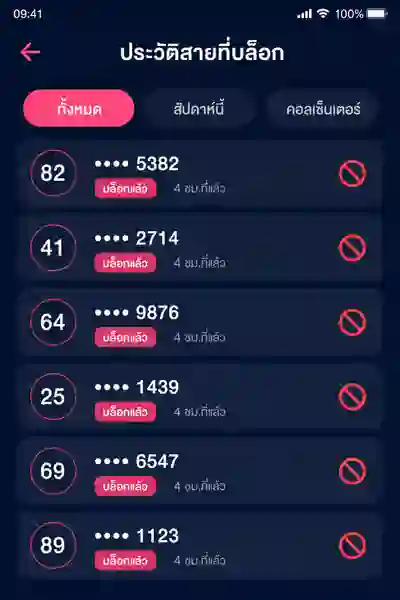
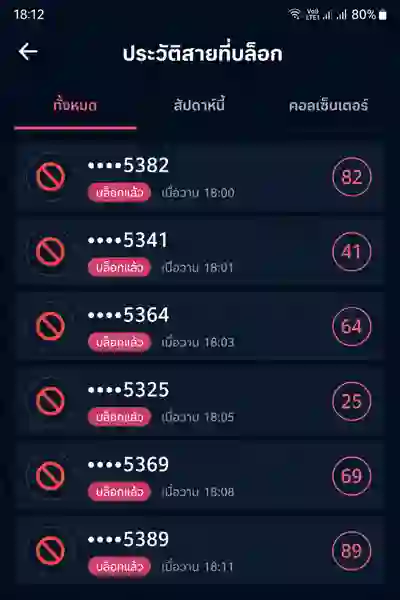
Update app screenshots to 6 screens: home, history, SMS, settings

diff --git a/index.html b/index.html
@@ -241,18 +241,12 @@
           <div class="w-full mt-6 pt-6 border-t border-slate-100 text-left">
             <h3 class="text-base font-bold text-slate-800 text-center mb-1">หน้าจอแอปหลังติดตั้ง</h3>
             <p class="text-xs text-slate-500 text-center mb-4">บล็อกสายอัตโนมัติ เช็คเบอร์ รายงานสแปม — ใช้งานได้ทันที</p>
-            <div class="grid grid-cols-2 sm:grid-cols-4 gap-3 md:gap-4">
+            <div class="grid grid-cols-2 sm:grid-cols-3 gap-3 md:gap-4">
               <figure class="text-center">
                 <div class="rounded-xl overflow-hidden shadow-md shadow-slate-900/10 bg-slate-900 aspect-[9/16]">
                   <img src="/assets/app-screenshots/app-home.webp" alt="หน้าหลักแอป SpamInThai — บล็อกสายมิจฉาชีพอัตโนมัติ" width="400" height="711" loading="lazy" class="w-full h-full object-cover object-top">
                 </div>
                 <figcaption class="text-[11px] text-slate-500 mt-2 font-medium">หน้าหลัก</figcaption>
-              </figure>
-              <figure class="text-center">
-                <div class="rounded-xl overflow-hidden shadow-md shadow-slate-900/10 bg-slate-900 aspect-[9/16]">
-                  <img src="/assets/app-screenshots/app-report.webp" alt="รายงานเบอร์สแปมในแอป SpamInThai" width="400" height="711" loading="lazy" class="w-full h-full object-cover object-top">
-                </div>
-                <figcaption class="text-[11px] text-slate-500 mt-2 font-medium">รายงานเบอร์สแปม</figcaption>
               </figure>
               <figure class="text-center">
                 <div class="rounded-xl overflow-hidden shadow-md shadow-slate-900/10 bg-slate-900 aspect-[9/16]">
@@ -262,9 +256,27 @@
               </figure>
               <figure class="text-center">
                 <div class="rounded-xl overflow-hidden shadow-md shadow-slate-900/10 bg-slate-900 aspect-[9/16]">
-                  <img src="/assets/app-screenshots/app-menu.webp" alt="เมนูแอป SpamInThai" width="400" height="711" loading="lazy" class="w-full h-full object-cover object-top">
+                  <img src="/assets/app-screenshots/app-sms.webp" alt="เช็ค SMS สแปมในแอป SpamInThai" width="400" height="711" loading="lazy" class="w-full h-full object-cover object-top">
                 </div>
-                <figcaption class="text-[11px] text-slate-500 mt-2 font-medium">เมนูแอป</figcaption>
+                <figcaption class="text-[11px] text-slate-500 mt-2 font-medium">เช็ค SMS สแปม</figcaption>
+              </figure>
+              <figure class="text-center">
+                <div class="rounded-xl overflow-hidden shadow-md shadow-slate-900/10 bg-slate-900 aspect-[9/16]">
+                  <img src="/assets/app-screenshots/app-settings.webp" alt="ตั้งค่าบล็อกสายในแอป SpamInThai" width="400" height="711" loading="lazy" class="w-full h-full object-cover object-top">
+                </div>
+                <figcaption class="text-[11px] text-slate-500 mt-2 font-medium">ตั้งค่า — บล็อกสาย</figcaption>
+              </figure>
+              <figure class="text-center">
+                <div class="rounded-xl overflow-hidden shadow-md shadow-slate-900/10 bg-slate-900 aspect-[9/16]">
+                  <img src="/assets/app-screenshots/app-settings-sms.webp" alt="กรอง SMS สแปมในแอป SpamInThai" width="400" height="711" loading="lazy" class="w-full h-full object-cover object-top">
+                </div>
+                <figcaption class="text-[11px] text-slate-500 mt-2 font-medium">กรอง SMS สแปม</figcaption>
+              </figure>
+              <figure class="text-center">
+                <div class="rounded-xl overflow-hidden shadow-md shadow-slate-900/10 bg-slate-900 aspect-[9/16]">
+                  <img src="/assets/app-screenshots/app-settings-privacy.webp" alt="ความเป็นส่วนตัว PDPA ในแอป SpamInThai" width="400" height="711" loading="lazy" class="w-full h-full object-cover object-top">
+                </div>
+                <figcaption class="text-[11px] text-slate-500 mt-2 font-medium">ความเป็นส่วนตัว</figcaption>
               </figure>
             </div>
           </div>

diff --git a/download.html b/download.html
@@ -27,6 +27,16 @@ p{color:var(--muted);margin-bottom:20px}
 .dl-btn:hover{background:var(--indigo-deep);color:#fff}
 .meta{margin-top:16px;font-size:.85rem;color:var(--muted)}
 .back{display:inline-block;margin-top:24px;font-size:.9rem}
+.shots{margin-top:28px;padding-top:24px;border-top:1px solid var(--line);text-align:left}
+.shots h2{font-size:1rem;text-align:center;margin-bottom:4px;color:var(--ink)}
+.shots>p{font-size:.85rem;text-align:center;margin-bottom:16px}
+.shot-grid{display:grid;grid-template-columns:repeat(2,1fr);gap:12px}
+@media(min-width:520px){.shot-grid{grid-template-columns:repeat(3,1fr)}}
+.shot-grid figure{margin:0;text-align:center}
+.shot-grid img{width:100%;border-radius:12px;box-shadow:0 4px 16px rgba(30,27,75,.12);background:#0f172a;aspect-ratio:9/16;object-fit:cover;object-position:top}
+.shot-grid figcaption{font-size:.72rem;color:var(--muted);margin-top:6px}
+.video-wrap{margin-top:24px;border-radius:var(--radius);overflow:hidden;aspect-ratio:9/16;max-width:280px;margin-left:auto;margin-right:auto;box-shadow:0 4px 24px rgba(79,70,229,.15)}
+.video-wrap iframe{width:100%;height:100%;border:0}
 </style>
 </head>
 <body>
@@ -48,9 +58,11 @@ p{color:var(--muted);margin-bottom:20px}
       <p>บล็อกสายอัตโนมัติ เช็คเบอร์ รายงานสแปม</p>
       <div class="shot-grid">
         <figure><img src="/assets/app-screenshots/app-home.webp" alt="หน้าหลักแอป SpamInThai" width="400" height="711" loading="lazy"><figcaption>หน้าหลัก</figcaption></figure>
-        <figure><img src="/assets/app-screenshots/app-report.webp" alt="รายงานเบอร์สแปม" width="400" height="711" loading="lazy"><figcaption>รายงานเบอร์</figcaption></figure>
         <figure><img src="/assets/app-screenshots/app-history.webp" alt="ประวัติสายที่บล็อก" width="400" height="711" loading="lazy"><figcaption>ประวัติบล็อก</figcaption></figure>
-        <figure><img src="/assets/app-screenshots/app-menu.webp" alt="เมนูแอป" width="400" height="711" loading="lazy"><figcaption>เมนูแอป</figcaption></figure>
+        <figure><img src="/assets/app-screenshots/app-sms.webp" alt="เช็ค SMS สแปม" width="400" height="711" loading="lazy"><figcaption>เช็ค SMS</figcaption></figure>
+        <figure><img src="/assets/app-screenshots/app-settings.webp" alt="ตั้งค่าบล็อกสาย" width="400" height="711" loading="lazy"><figcaption>ตั้งค่า</figcaption></figure>
+        <figure><img src="/assets/app-screenshots/app-settings-sms.webp" alt="กรอง SMS สแปม" width="400" height="711" loading="lazy"><figcaption>กรอง SMS</figcaption></figure>
+        <figure><img src="/assets/app-screenshots/app-settings-privacy.webp" alt="ความเป็นส่วนตัว PDPA" width="400" height="711" loading="lazy"><figcaption>PDPA</figcaption></figure>
       </div>
     </div>
   </div>
